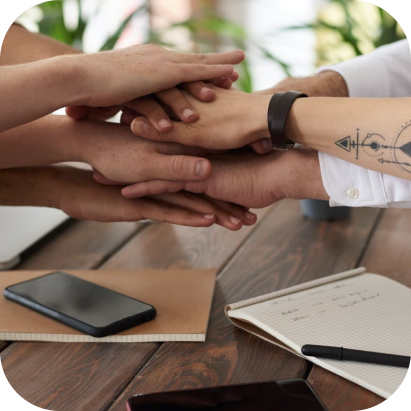
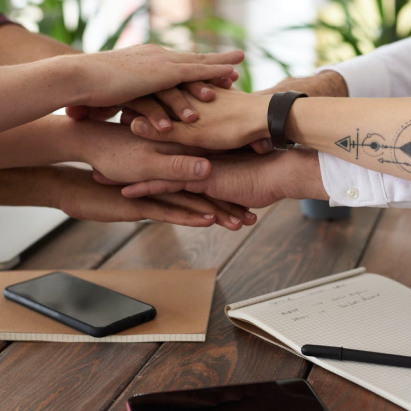
finished about us and finalized landing page

diff --git a/app/static/css/dist/styles.css b/app/static/css/dist/styles.css
@@ -687,9 +687,19 @@ select {
   margin: auto;
 }
 
+.my-20 {
+  margin-top: 5rem;
+  margin-bottom: 5rem;
+}
+
 .my-5 {
   margin-top: 1.25rem;
   margin-bottom: 1.25rem;
+}
+
+.my-\[10rem\] {
+  margin-top: 10rem;
+  margin-bottom: 10rem;
 }
 
 .my-0 {
@@ -707,21 +717,6 @@ select {
   margin-right: 2.5rem;
 }
 
-.my-20 {
-  margin-top: 5rem;
-  margin-bottom: 5rem;
-}
-
-.my-\[10rem\] {
-  margin-top: 10rem;
-  margin-bottom: 10rem;
-}
-
-.my-40 {
-  margin-top: 10rem;
-  margin-bottom: 10rem;
-}
-
 .mt-\[10\%\] {
   margin-top: 10%;
 }
@@ -736,14 +731,6 @@ select {
 
 .block {
   display: block;
-}
-
-.inline-block {
-  display: inline-block;
-}
-
-.inline {
-  display: inline;
 }
 
 .flex {
@@ -770,12 +757,12 @@ select {
   height: 2rem;
 }
 
-.h-20 {
-  height: 5rem;
+.h-auto {
+  height: auto;
 }
 
-.h-1\/4 {
-  height: 25%;
+.h-20 {
+  height: 5rem;
 }
 
 .w-full {
@@ -794,10 +781,6 @@ select {
   width: 2rem;
 }
 
-.w-11\/12 {
-  width: 91.666667%;
-}
-
 .w-1\/4 {
   width: 25%;
 }
@@ -806,6 +789,14 @@ select {
   width: -webkit-fit-content;
   width: -moz-fit-content;
   width: fit-content;
+}
+
+.w-11\/12 {
+  width: 91.666667%;
+}
+
+.w-3\/4 {
+  width: 75%;
 }
 
 @-webkit-keyframes bounce {
@@ -841,35 +832,6 @@ select {
           animation: bounce 1s infinite;
 }
 
-@-webkit-keyframes fade-in-upward {
-  0% {
-    opacity: 0;
-    transform: translateY(10px);
-  }
-
-  100% {
-    opacity: 1;
-    transform: translateY(0);
-  }
-}
-
-@keyframes fade-in-upward {
-  0% {
-    opacity: 0;
-    transform: translateY(10px);
-  }
-
-  100% {
-    opacity: 1;
-    transform: translateY(0);
-  }
-}
-
-.animate-fade-in-upward {
-  -webkit-animation: fade-in-upward .5s ease-in;
-          animation: fade-in-upward .5s ease-in;
-}
-
 .cursor-pointer {
   cursor: pointer;
 }
@@ -890,6 +852,10 @@ select {
   flex-direction: column;
 }
 
+.items-start {
+  align-items: flex-start;
+}
+
 .items-center {
   align-items: center;
 }
@@ -906,12 +872,12 @@ select {
   justify-content: space-between;
 }
 
-.gap-20 {
-  gap: 5rem;
+.justify-around {
+  justify-content: space-around;
 }
 
-.gap-10 {
-  gap: 2.5rem;
+.gap-20 {
+  gap: 5rem;
 }
 
 .overflow-hidden {
@@ -922,12 +888,20 @@ select {
   border-radius: 0.375rem;
 }
 
-.rounded-lg {
-  border-radius: 0.5rem;
+.rounded-\[25rem\] {
+  border-radius: 25rem;
 }
 
-.rounded-\[60pt\] {
-  border-radius: 60pt;
+.rounded-\[25px\] {
+  border-radius: 25px;
+}
+
+.rounded-\[25\%\] {
+  border-radius: 25%;
+}
+
+.rounded-\[20\%\] {
+  border-radius: 20%;
 }
 
 .bg-black {
@@ -988,9 +962,9 @@ select {
   padding-right: 1rem;
 }
 
-.py-20 {
-  padding-top: 5rem;
-  padding-bottom: 5rem;
+.px-10 {
+  padding-left: 2.5rem;
+  padding-right: 2.5rem;
 }
 
 .text-center {
@@ -1031,6 +1005,16 @@ select {
 .text-rice-white {
   --tw-text-opacity: 1;
   color: rgb(241 250 238 / var(--tw-text-opacity));
+}
+
+.text-black {
+  --tw-text-opacity: 1;
+  color: rgb(0 0 0 / var(--tw-text-opacity));
+}
+
+.text-sky-400 {
+  --tw-text-opacity: 1;
+  color: rgb(56 189 248 / var(--tw-text-opacity));
 }
 
 .opacity-70 {
@@ -1097,4 +1081,13 @@ select {
 
 .hover\:opacity-100:hover {
   opacity: 1;
+}
+
+.focus\:outline-none:focus {
+  outline: 2px solid transparent;
+  outline-offset: 2px;
+}
+
+.focus\:outline-dashed:focus {
+  outline-style: dashed;
 }

diff --git a/templates/app/landing_page.html b/templates/app/landing_page.html
@@ -47,11 +47,9 @@
     <a href="#"><button class="bg-primary-gradient py-[12px] px-[32px] rounded-md mt-10 font-semibold text-md">Start Now</button></a>
   </div>
 </section>
-<section id="about_us" class="w-full h-1/4 my-20 flex">
-  <div class="overflow-hidden rounded-[60pt] w-fit">
-    <img src="{% static 'images/team.jpg' %}" alt="Team Member Hands">
-  </div>
-  <div class="w-1/2">
+<section id="about_us" class="w-full my-20 flex items-start justify-center">
+  <img src="{% static 'images/team.jpg' %}" alt="Team Member Hands" class="rounded-[20%]">
+  <div class="px-10 w-1/2">
     <h2 class="text-[3rem]">About Us</h2>
     <p>Lorem ipsum dolor sit amet, consectetur adipiscing elit. Phasellus dolor, vitae in tortor nunc ipsum eget dictum. Faucibus sed dolor est ut lacinia platea. Non lobortis sagittis, curabitur iaculis. Facilisis leo ut ultrices mauris sollicitudin id vel nulla amet. Maecenas pretium, ornare tortor, nunc tellus gravida proin cras eget. Varius tristique neque, nunc volutpat platea non massa vitae sed. Non aliquet turpis et facilisi cursus nam nisi. Sagittis morbi vitae sit amet massa nisi, eleifend vitae.</p>
   </div>
